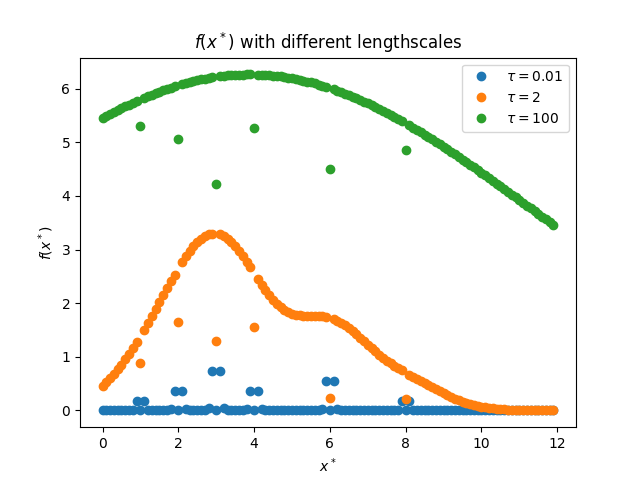
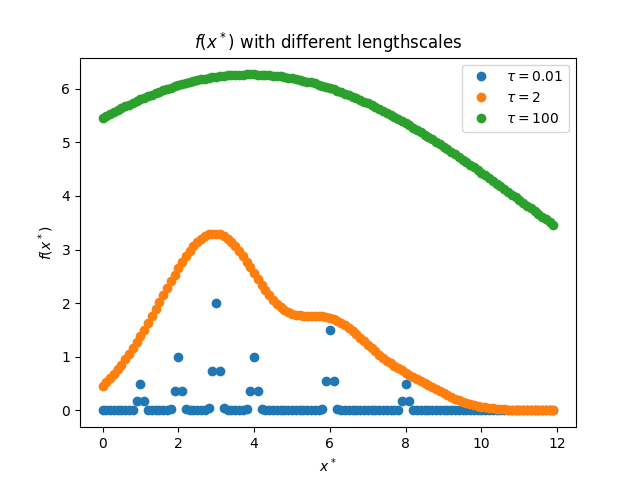
fix problem 1 based on ed post

diff --git a/HW1/T1_P1.py b/HW1/T1_P1.py
@@ -16,21 +16,19 @@ data = [(0., 0.),
         (6., 1.5),
         (8., 0.5)]
 
-def f(x, tau):
-    res = 0
-    for x_n, y_n in data:
-        # do not include K(x_n, x)y_n in sum when calculating f(x)
-        if not x_n == x:
-            res += math.exp( (- (x_n - x) ** 2) / tau) * y_n
-
-    return res
-
-
 def compute_loss(tau):
     loss = 0
 
     for x_i, y_i in data:
-        loss += (y_i - f(x_i, tau)) ** 2
+        f_i = 0
+
+        for x_n, y_n in data:
+            # do not include K(x_n, x)y_n in sum when calculating f(x)
+            # since we are calculating loss over training data
+            if not x_n == x_i:
+                f_i += math.exp( (- (x_n - x_i) ** 2) / tau) * y_n
+
+        loss += (y_i - f_i) ** 2
 
     return loss
 
@@ -38,11 +36,14 @@ for tau in (0.01, 2, 100):
     print("Loss for tau = " + str(tau) + ": " + str(compute_loss(tau)))
 
 
-
-
-
-
 # Make plots for problem 1.4
+def f(x, tau):
+    res = 0
+
+    for x_n, y_n in data:
+        res += math.exp( (- (x_n - x) ** 2) / tau) * y_n
+    
+    return res
 
 x = np.arange(0, 12, 0.1)
 
